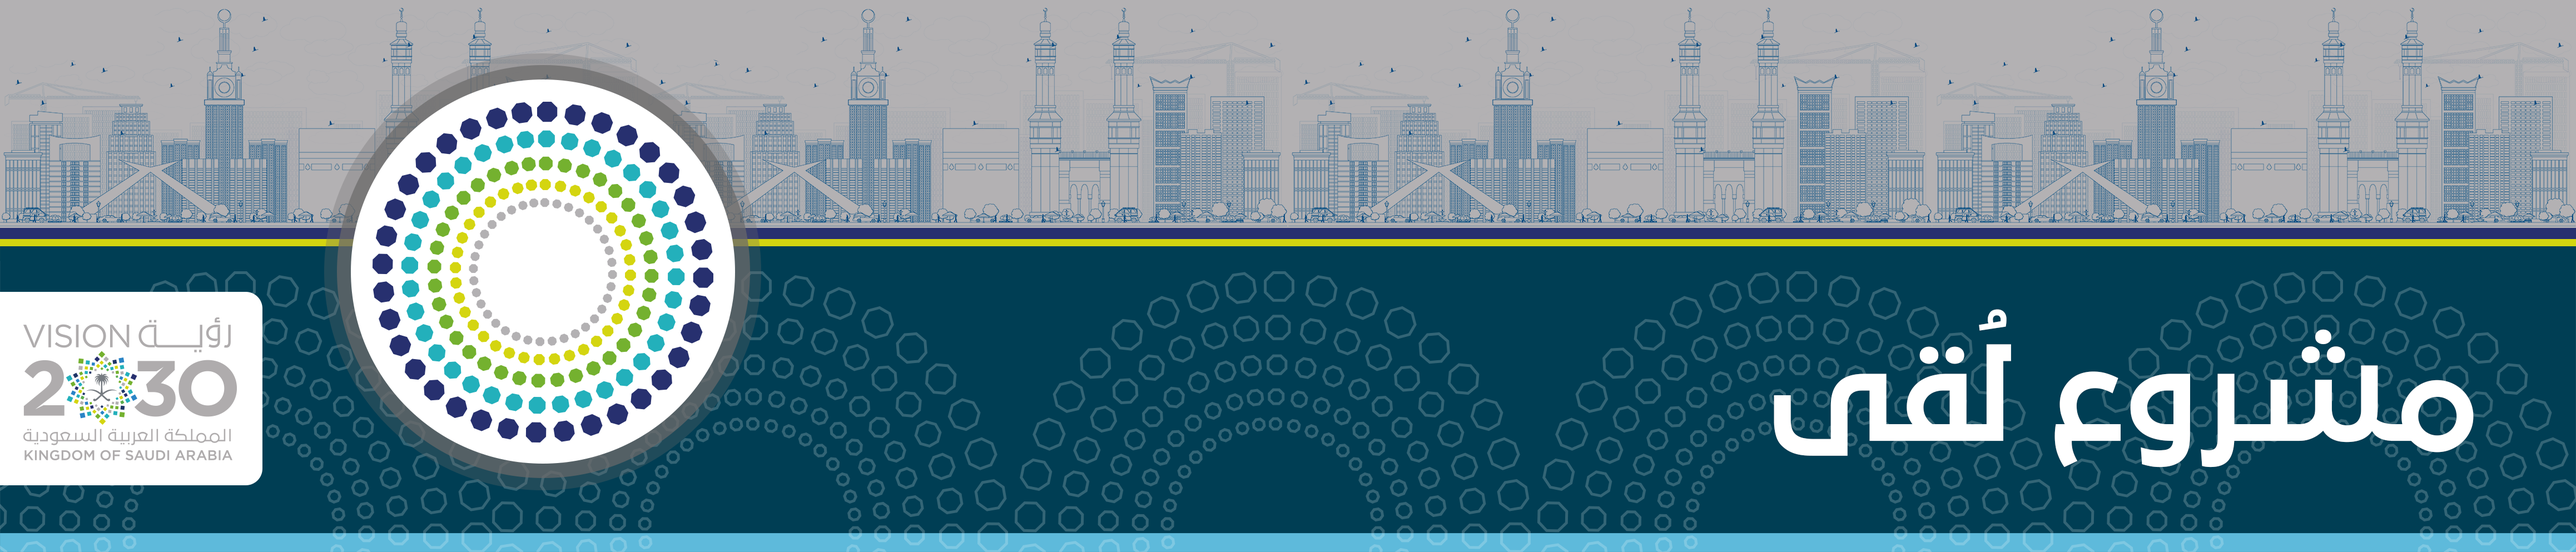
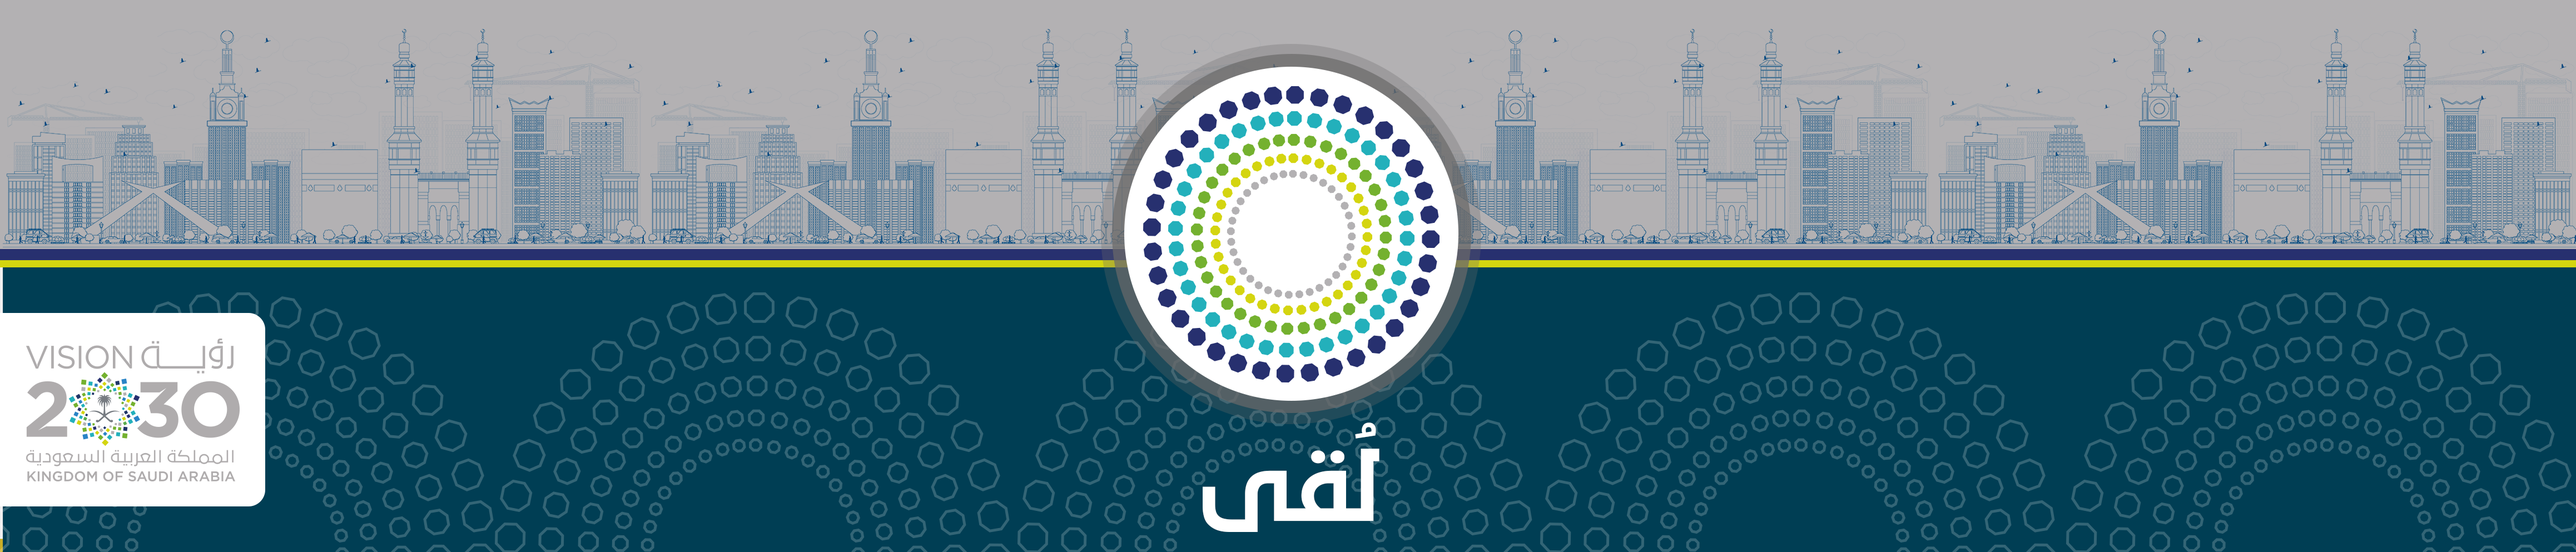
add

diff --git a/index.html b/index.html
@@ -795,8 +795,8 @@
         <div id="l5" style="background-color: #e3e3e3; " class="  ">
             <div>
 
-                <img id="T1" class="container img-fluid" style="padding-bottom: 0em;" src="assets/images/Group22.png">
-                <img id="T2" class="img-fluid" style="padding-bottom: 0em; margin-right: 0px;margin-left: 0px;" src="assets/images/Group1.jpg">
+                <img id="T1" class="container img-fluid" style="padding-bottom: 0em;" src="assets/images/Group2.png">
+                <img id="T2" class="img-fluid" style="padding-bottom: 0em; margin-right: 0px;margin-left: 0px;" src="assets/images/Group2.png">
             </div>
         </div>
 
